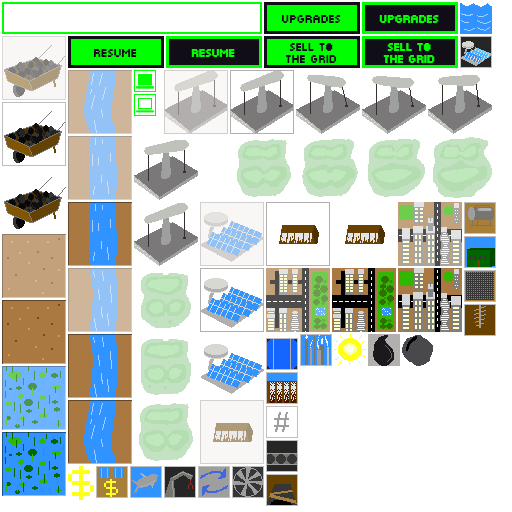
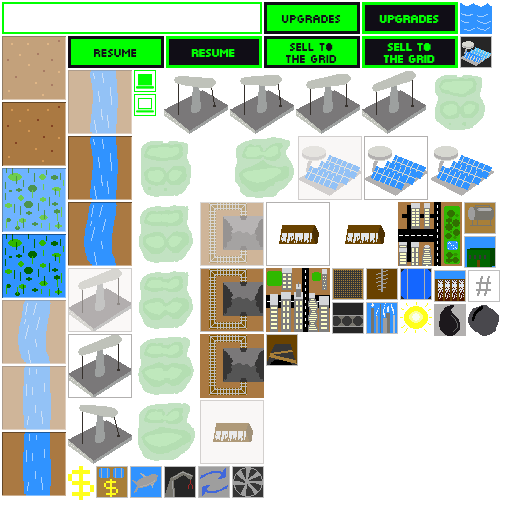
cargo fmt & updated art for mine

diff --git a/src/state/play_state.rs b/src/state/play_state.rs
@@ -107,7 +107,19 @@ impl<'a> PlayState<'a> {
             .with(systems::TogglePause {}, "toggle_pause", &["button_hover"])
             .with(systems::Tutorial::new(), "tutorial", &[])
             .with(systems::PulseSystem {}, "pulse", &[])
-            .with(systems::TextAbsoluteCache {}, "text_absolute_cache", &["build_gatherer", "floating_text_system", "toggle_tech_tree", "power_usage", "pollution", "sell_energy", "tutorial"])
+            .with(
+                systems::TextAbsoluteCache {},
+                "text_absolute_cache",
+                &[
+                    "build_gatherer",
+                    "floating_text_system",
+                    "toggle_tech_tree",
+                    "power_usage",
+                    "pollution",
+                    "sell_energy",
+                    "tutorial",
+                ],
+            )
             .build();
 
         let tech_tree_dispatcher = DispatcherBuilder::new()
@@ -120,7 +132,11 @@ impl<'a> PlayState<'a> {
             .with(systems::TechTree::new(), "tech_tree", &[])
             .with(systems::Tutorial::new(), "tutorial", &[])
             .with(systems::PulseSystem {}, "pulse", &[])
-            .with(systems::TextAbsoluteCache {}, "text_absolute_cache", &["tutorial", "tech_tree", "toggle_tech_tree"])
+            .with(
+                systems::TextAbsoluteCache {},
+                "text_absolute_cache",
+                &["tutorial", "tech_tree", "toggle_tech_tree"],
+            )
             .build();
 
         let pause_dispatcher = DispatcherBuilder::new()
@@ -168,7 +184,9 @@ impl<'a> State for PlayState<'a> {
                     tile_type.clone()
                 } else {
                     let r = rng.gen_range(0, 10);
-                    if set_nodes.contains_key(&(col, row - 1)) && set_nodes.get(&(col, row - 1)).unwrap().0 == TileType::River {
+                    if set_nodes.contains_key(&(col, row - 1))
+                        && set_nodes.get(&(col, row - 1)).unwrap().0 == TileType::River
+                    {
                         if r >= 4 {
                             TileType::River
                         } else if r >= 2 {
@@ -259,10 +277,10 @@ impl<'a> State for PlayState<'a> {
 
         let entity = world
             .create_entity()
-            .with(Transform::visible(
-                30.0, 32.0, 0.0, 260, 32, 0.0, 1.0, 1.0,
-            ))
-            .with(Sprite { frame_name: "powerbar.png".to_string() })
+            .with(Transform::visible(30.0, 32.0, 0.0, 260, 32, 0.0, 1.0, 1.0))
+            .with(Sprite {
+                frame_name: "powerbar.png".to_string(),
+            })
             .build();
         side_bar_container_node.add(entity);
 

diff --git a/src/components/tile.rs b/src/components/tile.rs
@@ -1,5 +1,5 @@
+use rand::{Rng, ThreadRng};
 use specs::{Component, VecStorage};
-use rand::{ThreadRng, Rng};
 
 #[derive(Copy, Clone, Debug, PartialEq)]
 pub enum TileType {
@@ -21,7 +21,7 @@ impl Tile {
     pub fn get_sprite_frames(rng: &mut ThreadRng, tile_type: &TileType) -> [String; 2] {
         match *tile_type {
             TileType::Open => ["tiles.png".to_string(), "tiles_highlight.png".to_string()],
-            TileType::EcoSystem => ["swamp.png".to_string(), "swamp_highlight.png".to_string()],
+            TileType::EcoSystem => ["swamp.png".to_string(), String::new()],
             TileType::River => {
                 let rand = rng.gen_range(0, 3);
                 if rand == 0 {
@@ -31,15 +31,15 @@ impl Tile {
                 } else {
                     ["river3.png".to_string(), "river3_highlight.png".to_string()]
                 }
-            },
+            }
             TileType::City => {
                 let rand = rng.gen_range(0, 2);
                 if rand == 0 {
-                    ["city.png".to_string(), "city_highlight.png".to_string()]
+                    ["city.png".to_string(), String::new()]
                 } else {
-                    ["city2.png".to_string(), "city2_highlight.png".to_string()]
+                    ["city2.png".to_string(), String::new()]
                 }
-            },
+            }
         }
     }
 

diff --git a/src/systems/power_usage.rs b/src/systems/power_usage.rs
@@ -1,5 +1,5 @@
-use components::{CityPowerState, Color, DeltaTime, EntityLookup, GatheringRate, PowerBar, ResourceCount,
-                 Resources, StateChange, Text, Transform};
+use components::{CityPowerState, Color, DeltaTime, EntityLookup, GatheringRate, PowerBar,
+                 ResourceCount, Resources, StateChange, Text, Transform};
 use specs::{Join, Read, ReadStorage, System, Write, WriteStorage};
 use state::play_state::PlayState;
 use std::ops::{Deref, DerefMut};
@@ -106,7 +106,11 @@ impl<'b> System<'b> for PowerUsage {
         }
 
         let powering_text = if city_power_state.current_city_count > 1 {
-            format!("Power: {}\n{} cities", total_gathering_rate - power_demands, city_power_state.current_city_count)
+            format!(
+                "Power: {}\n{} cities",
+                total_gathering_rate - power_demands,
+                city_power_state.current_city_count
+            )
         } else {
             format!("Power: {}", total_gathering_rate - power_demands)
         };

diff --git a/src/entities/create_build_ui.rs b/src/entities/create_build_ui.rs
@@ -45,8 +45,8 @@ pub fn create<'a, 'b: 'a>(
                 Button::new(
                     "build_coal".to_string(),
                     [
-                        "wheelbarrel_button_1.png".to_string(),
-                        "wheelbarrel_button_2.png".to_string(),
+                        "mine_button_1.png".to_string(),
+                        "mine_button_2.png".to_string(),
                     ],
                 ),
             )
@@ -55,7 +55,7 @@ pub fn create<'a, 'b: 'a>(
             .insert(
                 coal_entity,
                 Sprite {
-                    frame_name: "wheelbarrel_button_1.png".to_string(),
+                    frame_name: "mine_button_1.png".to_string(),
                 },
             )
             .unwrap();

diff --git a/src/systems/tech_tree.rs b/src/systems/tech_tree.rs
@@ -13,7 +13,11 @@ use components::{ui::{TutorialUI, WalletUI},
                  Transform,
                  TutorialStep,
                  Wallet};
-use entities::{create_text, create_tooltip, recursive_delete, tutorial, tech_tree::{get_color_from_status, Status, Upgrade}};
+use entities::{create_text,
+               create_tooltip,
+               recursive_delete,
+               tech_tree::{get_color_from_status, Status, Upgrade},
+               tutorial};
 use specs::{Entities, Entity, Join, Read, ReadStorage, System, Write, WriteStorage};
 use std::ops::{Deref, DerefMut};
 use storage_types::*;

diff --git a/src/systems/research.rs b/src/systems/research.rs
@@ -6,7 +6,8 @@ use components::{upgrade::{Buff, LearnProgress, Status, Upgrade, UpgradeLinesLoo
                  ResearchingEntities,
                  Shape,
                  Transform};
-use entities::{recursive_delete, tech_tree::{get_color_from_status, traverse_tree, TechTreeNode}};
+use entities::{recursive_delete,
+               tech_tree::{get_color_from_status, traverse_tree, TechTreeNode}};
 use specs::{Entities, Join, Read, ReadExpect, ReadStorage, System, Write, WriteStorage};
 use std::collections::HashMap;
 use std::ops::{Deref, DerefMut};

diff --git a/src/systems/tile_selection.rs b/src/systems/tile_selection.rs
@@ -2,7 +2,7 @@ use components::{ui::TutorialUI, Actions, Button, Color, EntityLookup, Gatherer,
                  Rect, ResearchedBuffs, SelectedTile, Sprite, Text, Tile, Transform, TutorialStep};
 use entities::{create_build_ui, recursive_delete, tutorial};
 use specs::{Entities, Entity, Join, Read, ReadStorage, System, Write, WriteStorage};
-use std::ops::{Deref};
+use std::ops::Deref;
 use systems::logic;
 
 pub struct TileSelection {

diff --git a/src/components/gatherer.rs b/src/components/gatherer.rs
@@ -20,7 +20,7 @@ impl GathererType {
 
     pub fn get_frames(&self) -> Vec<String> {
         match *self {
-            GathererType::Coal => vec!["wheelbarrel.png".to_string()],
+            GathererType::Coal => vec!["mine.png".to_string()],
             GathererType::Oil => vec![
                 "refinery_1.png".to_string(),
                 "refinery_2.png".to_string(),

diff --git a/src/entities/recursive_delete.rs b/src/entities/recursive_delete.rs
@@ -1,5 +1,5 @@
-use specs::{Entity, Entities, WriteStorage};
-use components::{Node};
+use components::Node;
+use specs::{Entities, Entity, WriteStorage};
 
 pub fn recursive_delete(entities: &Entities, node_storage: &WriteStorage<Node>, entity: &Entity) {
     if let Some(node) = node_storage.get(*entity) {
